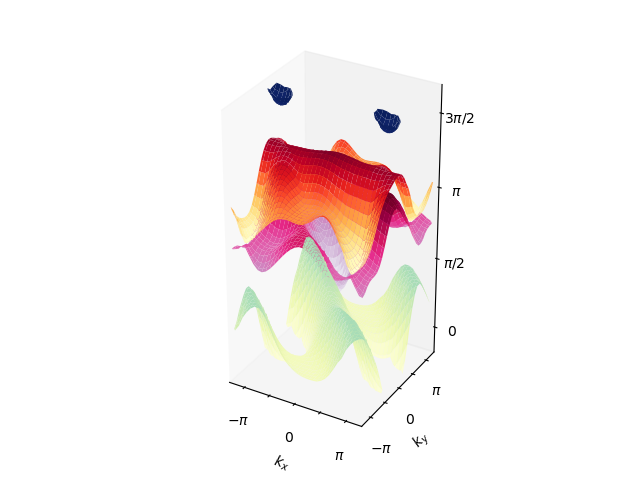
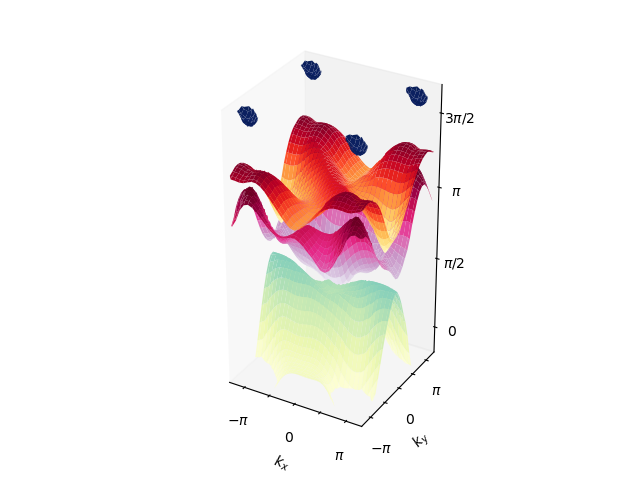
SP3

diff --git a/test.py b/test.py
@@ -2,7 +2,7 @@ import numpy as np
 from tight_binding.bandstructure import locate_nodes, plot_bandstructure2D
 from tight_binding.topology import locate_dirac_strings
 
-name = 'SP3_driven_Ax_w_dA_dC_1_10_-4_4'
+name = 'SP3_driven_Ax_w_dA_dC_1_10_3.6_-3.6'
 file = 'figures/square/SP3/driven/bandstructures/' + name + '/' + name + '_grids/' + name + '_grid.npy'
 energies = np.load(file)
 
